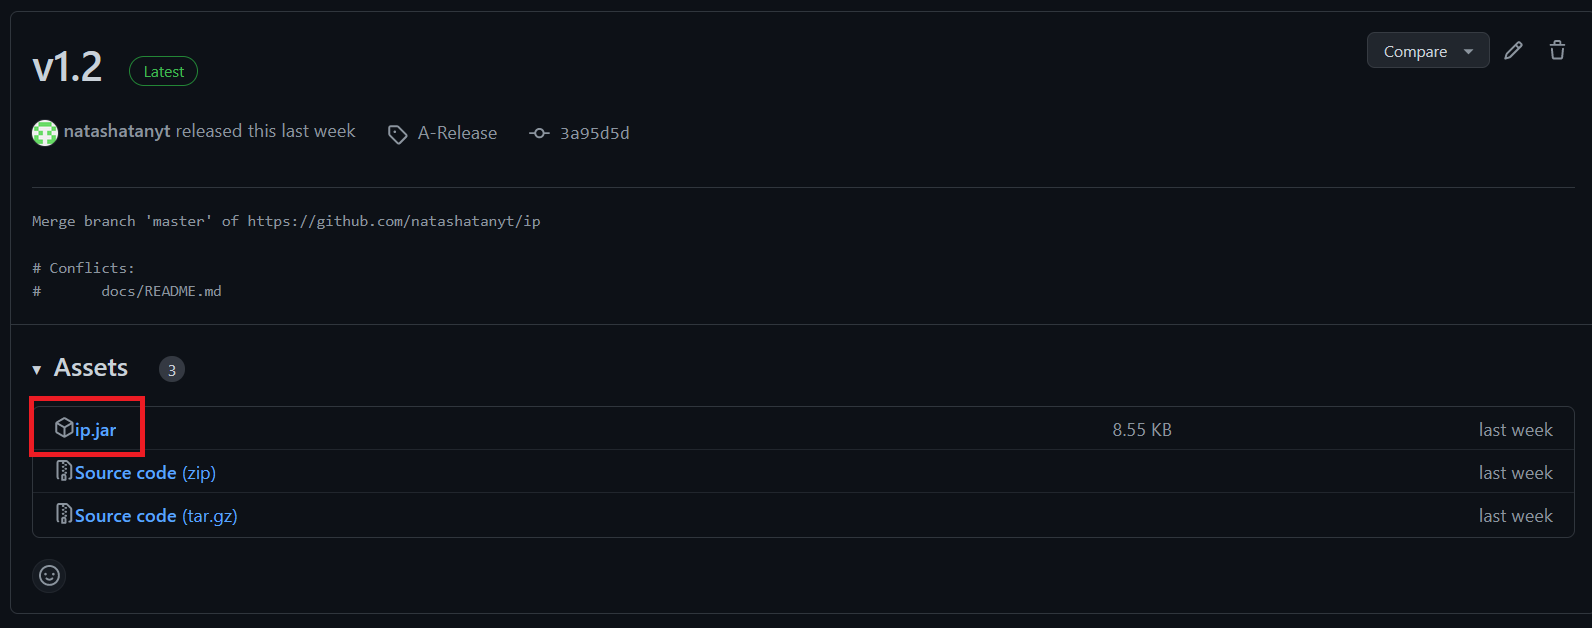
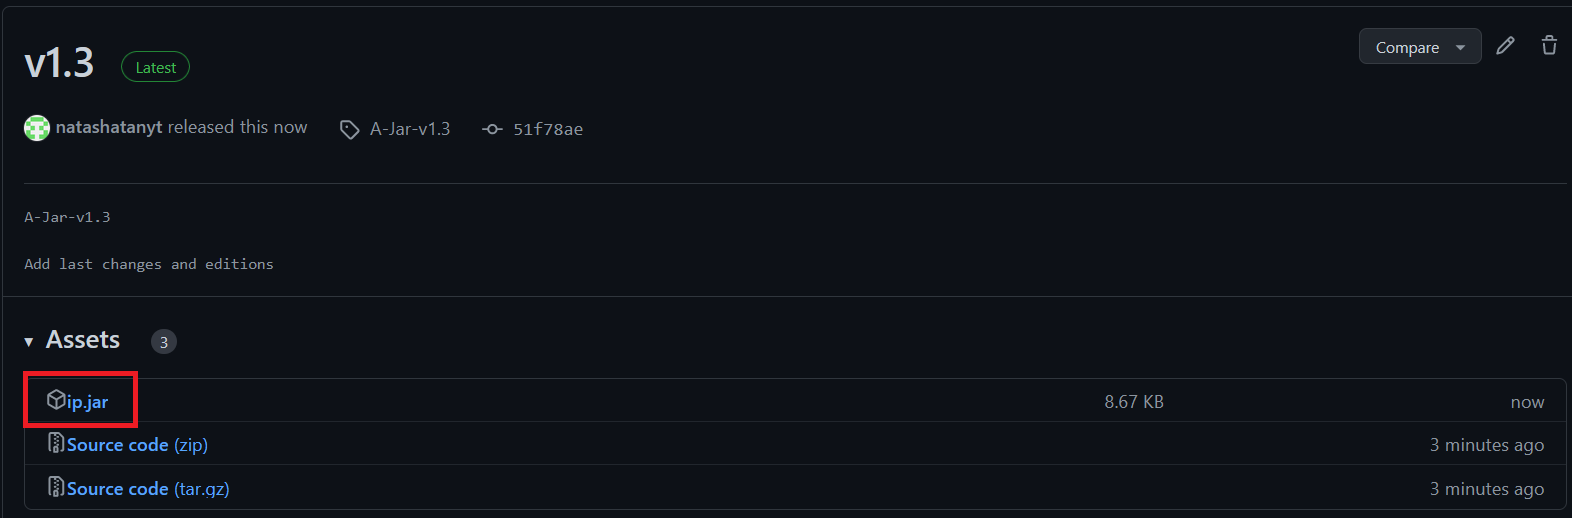
Update UG

diff --git a/docs/README.md b/docs/README.md
@@ -31,7 +31,9 @@ Thank you for using Duke. Duke is a command-line interface, personal assistant b
 6. In the terminal, navigate to the location of the folder by doing `cd FILE_PATH`
    1. This step is important as it ensures that the saved tasks file will be saved in the same directory. Otherwise, the file will be stored in the current working directory.
 7. Use the command `java -jar ip.jar` to launch Duke. If done correctly, you will see something like this on your first start up:
+
    ![startup.png](images/startup.png)
+
 8. When you are done using the app, enter `bye` to shut the application down. This ensures that Duke will save your data, as saving data is only done during the shut-down process. 
 
 # Quick Notes about Formatting and Inputs
@@ -89,8 +91,6 @@ The first section shows the type of task, with 'T' for todo, 'D' for deadline, a
 ## Marking Tasks
 Duke comes with an in-built task tracker, allowing you to mark tasks as completed and uncompleted. By default, tasks are added to the list as incomplete.
 
-For both marking and unmarking tasks, the inclusion of non-integer parameters will cause Duke to crash. 
-
 To obtain figure out the index of your code, you can use the command [`list`](#list).
 
 ### Mark Tasks
@@ -110,7 +110,7 @@ If the input method is correct, you will see something like this:
 ## Delete
 Currently, there Duke does not have the ability to edit tasks. If you make a mistake, or want to delete a task, you can do so with this feature. 
 
-The command usage is `delete INDEX`, ie. `delete 1`. Using any non-integers as a parameter will cause Duke to crash. 
+The command usage is `delete INDEX`, ie. `delete 1`. 
 
 If the input method is correct, you will see something like this:
 
@@ -149,4 +149,4 @@ This section will give the full list of features that Duke has. If you want to s
 | Find              | `find DESCRIPTION`               | `find book`                                                         |
 
 # Conclusion
-Thank you for your interest in Duke! If you have any issues, please reach out to me via email, [natashatan.yt@gmail.com](mailto:natashatan.yt@gmail.com)
+Thank you for your interest in Duke! If you have any issues, please reach out to me on Github!
